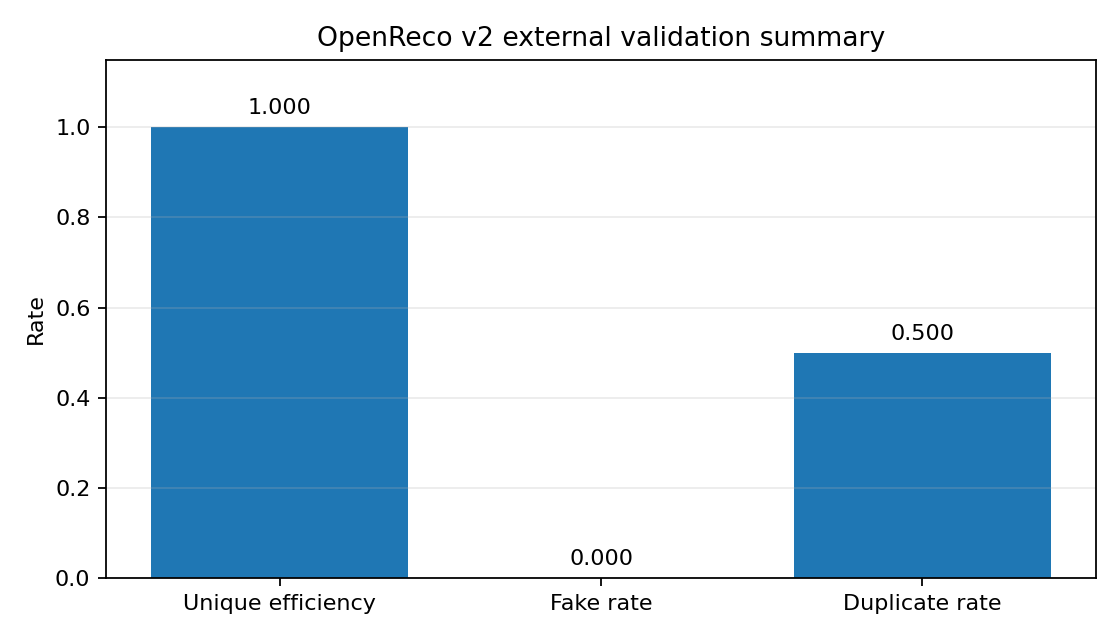
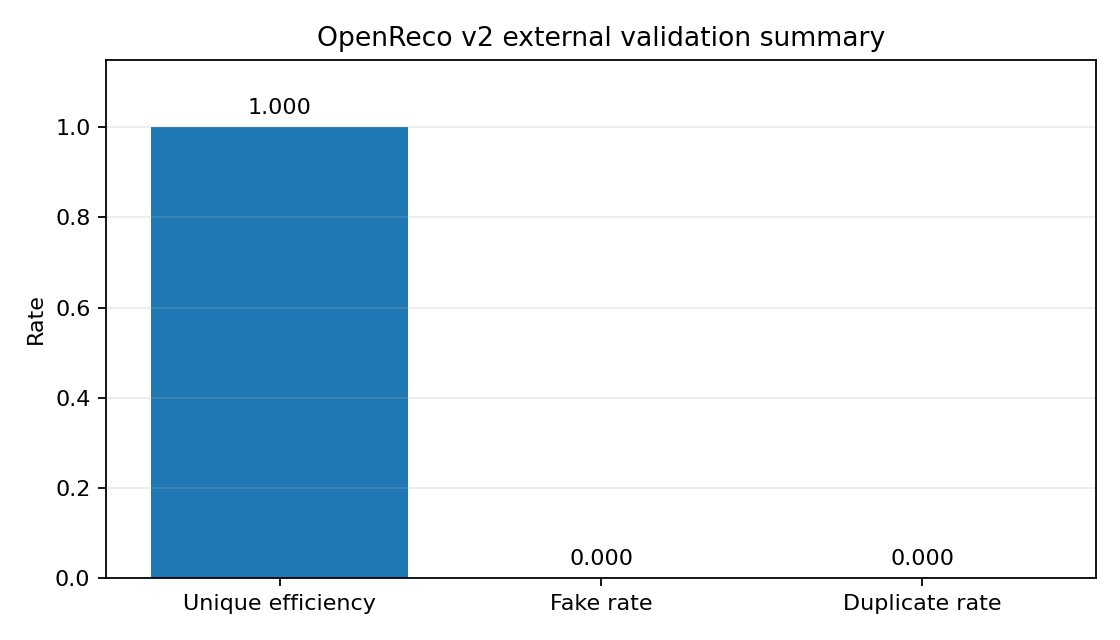
Calibrate official ACTS Fatras CSV validation

Changed region(s): [[0.6875, 0.5, 0.9375, 0.9062]]

diff --git a/examples/acts_dataset_validation.py b/examples/acts_dataset_validation.py
@@ -1,172 +1,172 @@
-from __future__ import annotations
+from __future__ import annotations
 
 import argparse
 import sys
 from pathlib import Path
 
-PROJECT_ROOT = Path(**file**).resolve().parents[1]
+PROJECT_ROOT = Path(__file__).resolve().parents[1]
 if str(PROJECT_ROOT) not in sys.path:
-sys.path.insert(0, str(PROJECT_ROOT))
+    sys.path.insert(0, str(PROJECT_ROOT))
 
 from openreco.external.acts_fatras_loader import (
-ActsFatrasLoaderConfig,
-load_fatras_dataset,
+    ActsFatrasLoaderConfig,
+    load_fatras_dataset,
 )
 from openreco.external.acts_loader import load_acts_dataset
 from openreco.external.reconstruction import run_external_dataset_reconstruction
 from openreco.validation.external_metrics import (
-compute_external_validation_metrics,
-format_external_validation_metrics,
+    compute_external_validation_metrics,
+    format_external_validation_metrics,
 )
 from openreco.validation.report import write_external_validation_report
 
+
 def main() -> None:
-parser = argparse.ArgumentParser(
-description="Run OpenReco v2 reconstruction on ACTS-style external files."
-)
+    parser = argparse.ArgumentParser(
+        description="Run OpenReco v2 reconstruction on ACTS-style external files."
+    )
 
-```
-parser.add_argument(
-    "--dataset",
-    type=str,
-    default="datasets/acts_small",
-    help="Path to external dataset directory.",
-)
+    parser.add_argument(
+        "--dataset",
+        type=str,
+        default="datasets/acts_small",
+        help="Path to external dataset directory.",
+    )
 
-parser.add_argument(
-    "--input-format",
-    type=str,
-    default="acts-style",
-    choices=("acts-style", "acts-fatras"),
-    help=(
-        "Input dataset format. "
-        "'acts-style' expects truth_particles.csv + measurements.csv. "
-        "'acts-fatras' expects official ACTS/Fatras event*-hits.csv "
-        "+ event*-particles_initial.csv files."
-    ),
-)
-
-parser.add_argument(
-    "--fatras-length-scale",
-    type=float,
-    default=0.1,
-    help=(
-        "Length scale for ACTS/Fatras coordinates. "
-        "Default 0.1 maps mm-like ACTS coordinates to cm-like OpenReco units."
-    ),
-)
-
-parser.add_argument(
-    "--fatras-radius-merge-tolerance",
-    type=float,
-    default=0.5,
-    help=(
-        "Merge ACTS/Fatras surfaces into the same simplified layer "
-        "if their radii are this close after scaling."
-    ),
-)
-
-parser.add_argument(
-    "--max-events",
-    type=int,
-    default=None,
-    help="Maximum number of events to process.",
-)
-
-parser.add_argument(
-    "--seed-mode",
-    type=str,
-    default="hole-aware",
-    choices=("strict", "hole-aware"),
-)
-
-parser.add_argument(
-    "--min-hits",
-    type=int,
-    default=3,
-)
-
-parser.add_argument(
-    "--chi2-threshold",
-    type=float,
-    default=25.0,
-)
-
-parser.add_argument(
-    "--no-ekf-fit",
-    action="store_true",
-    help="Disable EKF fitting and run only seeding + track finding.",
-)
-
-parser.add_argument(
-    "--output-dir",
-    type=str,
-    default="docs",
-    help="Directory where CSV reports and plots are saved.",
-)
-
-parser.add_argument(
-    "--no-report",
-    action="store_true",
-    help="Do not write CSV report files.",
-)
-
-parser.add_argument(
-    "--no-plots",
-    action="store_true",
-    help="Do not write validation plots.",
-)
-
-args = parser.parse_args()
-
-if args.input_format == "acts-style":
-    dataset = load_acts_dataset(args.dataset)
-    reconstruction_max_events = args.max_events
-
-elif args.input_format == "acts-fatras":
-    dataset = load_fatras_dataset(
-        args.dataset,
-        max_events=args.max_events,
-        config=ActsFatrasLoaderConfig(
-            length_scale=args.fatras_length_scale,
-            radius_merge_tolerance=args.fatras_radius_merge_tolerance,
+    parser.add_argument(
+        "--input-format",
+        type=str,
+        default="acts-style",
+        choices=("acts-style", "acts-fatras"),
+        help=(
+            "Input dataset format. "
+            "'acts-style' expects truth_particles.csv + measurements.csv. "
+            "'acts-fatras' expects official ACTS/Fatras event*-hits.csv "
+            "+ event*-particles_initial.csv files."
         ),
     )
-    reconstruction_max_events = None
 
-else:
-    raise ValueError(f"Unknown input format: {args.input_format}")
-
-summary = run_external_dataset_reconstruction(
-    dataset,
-    max_events=reconstruction_max_events,
-    seed_mode=args.seed_mode,
-    min_hits=args.min_hits,
-    chi2_threshold=args.chi2_threshold,
-    use_ekf_fit=not args.no_ekf_fit,
-)
-
-metrics = compute_external_validation_metrics(summary)
-
-print(format_external_validation_metrics(metrics))
-
-if not args.no_report:
-    paths = write_external_validation_report(
-        summary,
-        args.output_dir,
-        make_plots=not args.no_plots,
+    parser.add_argument(
+        "--fatras-length-scale",
+        type=float,
+        default=0.1,
+        help=(
+            "Length scale for ACTS/Fatras coordinates. "
+            "Default 0.1 maps mm-like ACTS coordinates to cm-like OpenReco units."
+        ),
     )
 
-    print("")
-    print(f"summary CSV:               {paths.summary_csv}")
-    print(f"tracks CSV:                {paths.tracks_csv}")
+    parser.add_argument(
+        "--fatras-radius-merge-tolerance",
+        type=float,
+        default=0.5,
+        help=(
+            "Merge ACTS/Fatras surfaces into the same simplified layer "
+            "if their radii are this close after scaling."
+        ),
+    )
 
-    if paths.efficiency_plot is not None:
-        print(f"efficiency plot:           {paths.efficiency_plot}")
+    parser.add_argument(
+        "--max-events",
+        type=int,
+        default=None,
+        help="Maximum number of events to process.",
+    )
 
-    if paths.momentum_residual_plot is not None:
-        print(f"momentum residual plot:    {paths.momentum_residual_plot}")
-```
+    parser.add_argument(
+        "--seed-mode",
+        type=str,
+        default="hole-aware",
+        choices=("strict", "hole-aware"),
+    )
 
-if **name** == "**main**":
-main()
+    parser.add_argument(
+        "--min-hits",
+        type=int,
+        default=3,
+    )
+
+    parser.add_argument(
+        "--chi2-threshold",
+        type=float,
+        default=25.0,
+    )
+
+    parser.add_argument(
+        "--no-ekf-fit",
+        action="store_true",
+        help="Disable EKF fitting and run only seeding + track finding.",
+    )
+
+    parser.add_argument(
+        "--output-dir",
+        type=str,
+        default="docs",
+        help="Directory where CSV reports and plots are saved.",
+    )
+
+    parser.add_argument(
+        "--no-report",
+        action="store_true",
+        help="Do not write CSV report files.",
+    )
+
+    parser.add_argument(
+        "--no-plots",
+        action="store_true",
+        help="Do not write validation plots.",
+    )
+
+    args = parser.parse_args()
+
+    if args.input_format == "acts-style":
+        dataset = load_acts_dataset(args.dataset)
+        reconstruction_max_events = args.max_events
+
+    elif args.input_format == "acts-fatras":
+        dataset = load_fatras_dataset(
+            args.dataset,
+            max_events=args.max_events,
+            config=ActsFatrasLoaderConfig(
+                length_scale=args.fatras_length_scale,
+                radius_merge_tolerance=args.fatras_radius_merge_tolerance,
+            ),
+        )
+        reconstruction_max_events = None
+
+    else:
+        raise ValueError(f"Unknown input format: {args.input_format}")
+
+    summary = run_external_dataset_reconstruction(
+        dataset,
+        max_events=reconstruction_max_events,
+        seed_mode=args.seed_mode,
+        min_hits=args.min_hits,
+        chi2_threshold=args.chi2_threshold,
+        use_ekf_fit=not args.no_ekf_fit,
+    )
+
+    metrics = compute_external_validation_metrics(summary)
+
+    print(format_external_validation_metrics(metrics))
+
+    if not args.no_report:
+        paths = write_external_validation_report(
+            summary,
+            args.output_dir,
+            make_plots=not args.no_plots,
+        )
+
+        print("")
+        print(f"summary CSV:               {paths.summary_csv}")
+        print(f"tracks CSV:                {paths.tracks_csv}")
+
+        if paths.efficiency_plot is not None:
+            print(f"efficiency plot:           {paths.efficiency_plot}")
+
+        if paths.momentum_residual_plot is not None:
+            print(f"momentum residual plot:    {paths.momentum_residual_plot}")
+
+
+if __name__ == "__main__":
+    main()
